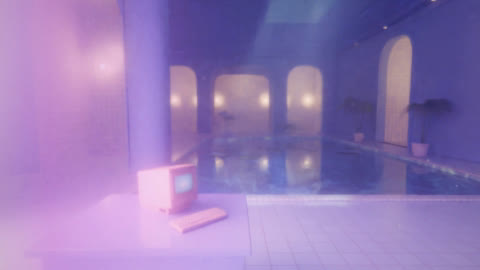
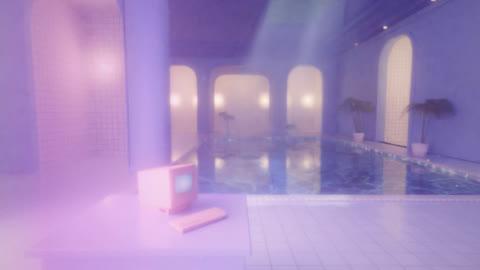
Sunbeams: fill only the sun's shaft
Light linking keeps the other lamps off the beam haze, but light bounced off
the walls and the sky still lit it, so a room-filling beam haze veiled the
whole room even with the sun off. The haze is now a prism: the skylight
opening swept down-sun to the floor, padded for the penumbra. Outside the
shaft the room stays clear, so the solarium and moonlit presets take a denser
0.07 for more distinct rays.

diff --git a/wavegen/scene/nature.py b/wavegen/scene/nature.py
@@ -108,11 +108,33 @@ def _skylight(cfg: dict, bounds) -> None:
 
 def _sunbeams(cfg: dict, bounds, sun) -> None:
     """Haze lit by the sun alone (Cycles light linking): every other light and glowing
-    surface skips it, so it shows only where the sun's shafts cross the room."""
-    x0, x1, y0, y1, H = bounds
-    bm = cfg["nature"]["skylight"]["beams"]
-    beams = box("Sunbeams", (x0 + 0.05, y0 + 0.05, 0.02), (x1 - 0.05, y1 - 0.05, H - 0.05), collection("Atmosphere"),
-                M.volume_haze("Sunbeams", cfg["palette"]["haze"], bm["density"], bm["anisotropy"]))
+    surface skips it. Light bounced off the walls and the sky can't be unlinked, so the
+    haze fills only the sun's shaft, the opening swept down-sun to the floor (plus a
+    little for the penumbra), and the rest of the room stays clear."""
+    import bmesh
+
+    from .util import obj_from_bmesh
+    sky, room = cfg["nature"]["skylight"], cfg["room"]
+    tray = room["ceiling_tray"]
+    sx, sy, sz = sun_direction(sky["sun_elevation"], sky["sun_azimuth"])
+    (cx, cy), (w, d) = sky["center"], sky["size"]
+    pad = 0.25
+    top, low = bounds[4] + tray["steps"] * tray["step_height"], 0.02
+    dx, dy = -sx / sz * (top - low), -sy / sz * (top - low)
+    rect = [(cx - w / 2 - pad, cy - d / 2 - pad), (cx + w / 2 + pad, cy - d / 2 - pad),
+            (cx + w / 2 + pad, cy + d / 2 + pad), (cx - w / 2 - pad, cy + d / 2 + pad)]
+    bm = bmesh.new()
+    up = [bm.verts.new((x, y, top)) for x, y in rect]
+    down = [bm.verts.new((x + dx, y + dy, low)) for x, y in rect]
+    bm.faces.new(up)
+    bm.faces.new(list(reversed(down)))
+    for i in range(4):
+        j = (i + 1) % 4
+        bm.faces.new((down[i], down[j], up[j], up[i]))
+    bmesh.ops.recalc_face_normals(bm, faces=bm.faces)
+    bms = sky["beams"]
+    beams = obj_from_bmesh("Sunbeams", bm, collection("Atmosphere"),
+                           M.volume_haze("Sunbeams", cfg["palette"]["haze"], bms["density"], bms["anisotropy"]))
     beams.visible_shadow = False
     skip = bpy.data.collections.new("NoSunbeams")
     skip.objects.link(beams)

diff --git a/tests/test_nature.py b/tests/test_nature.py
@@ -222,7 +222,26 @@ def test_no_sunbeam_haze_unless_asked():
     assert "Sunbeams" not in bpy.data.objects
 
 
-def test_sunbeam_haze_fills_the_room_and_only_the_sun_lights_it():
+def test_sunbeam_haze_fills_only_the_suns_shaft():
+    # bounced light and the sky can't be unlinked, so the haze must not reach past the shaft
+    from wavegen.scene.nature import sun_direction
+    cfg = _build(*BEAMS)
+    sky = cfg["nature"]["skylight"]
+    sx, sy, sz = sun_direction(sky["sun_elevation"], sky["sun_azimuth"])
+    o = bpy.data.objects["Sunbeams"]
+    vs = [o.matrix_world @ v.co for v in o.data.vertices]
+    top, low = max(v.z for v in vs), min(v.z for v in vs)
+    ring = lambda z: [v for v in vs if abs(v.z - z) < 1e-4]
+    mid = lambda pts, k: sum(p[k] for p in pts) / len(pts)
+    (cx, cy), (w, d) = sky["center"], sky["size"]
+    assert (mid(ring(top), 0), mid(ring(top), 1)) == pytest.approx((cx, cy), abs=1e-3)
+    drop = top - low                                           # the footprint slides down-sun
+    assert (mid(ring(low), 0), mid(ring(low), 1)) == pytest.approx((cx - sx / sz * drop, cy - sy / sz * drop), abs=1e-3)
+    span = max(v.x for v in ring(low)) - min(v.x for v in ring(low))
+    assert w < span < w + 1.0                                  # the opening plus a little penumbra, not the room
+
+
+def test_sunbeam_haze_is_lit_by_the_sun_alone():
     cfg = _build(*BEAMS)
     beams = bpy.data.objects["Sunbeams"]
     vol = beams.active_material.node_tree.nodes["Principled Volume"]

diff --git a/docs/REFERENCE_SWEEP.md b/docs/REFERENCE_SWEEP.md
@@ -137,7 +137,9 @@ Why the beams need their own haze: the room's haze is lit by the cove and
 alcove lights everywhere, which lifts it as much as the sun lifts the shaft,
 so no beam shows however thick it is. A second haze that only the sun lights
 has nothing but the shaft in it. Beams read best looking toward the sun
-(azimuth ~155, forward-scattering anisotropy 0.75).
+(azimuth ~155, forward-scattering anisotropy 0.75). Bounced light and the sky
+can't be unlinked, so the beam haze fills only the sun's shaft, the opening
+swept down-sun to the floor, and the rest of the room stays clear.
 
 ### Need one new feature each
 - **Glowing Pool.** Underwater lights so the water lights the room from below.
